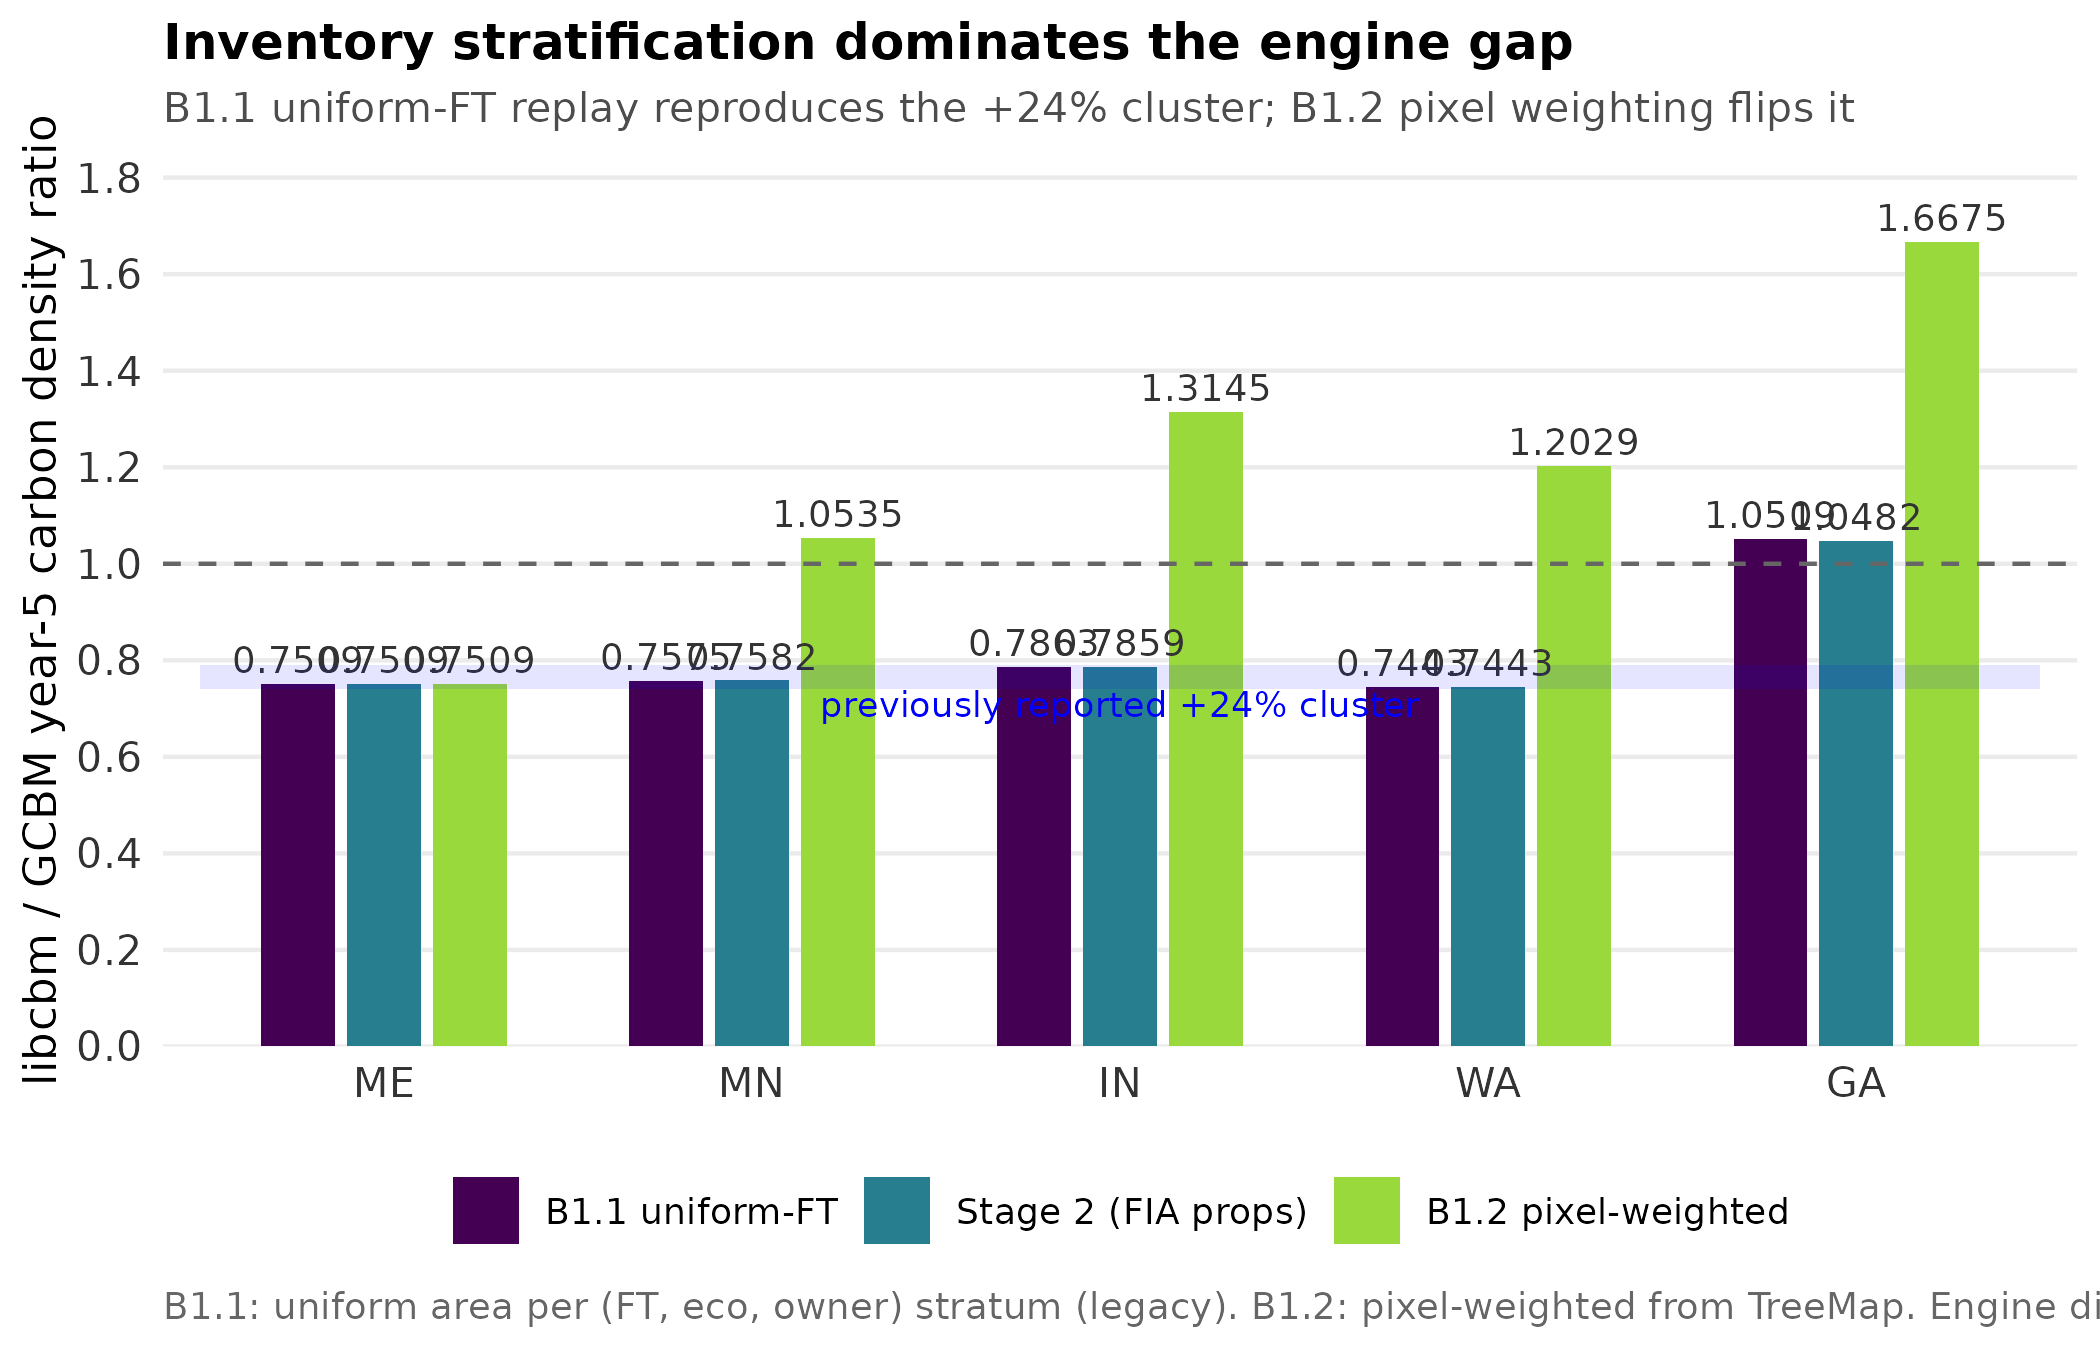
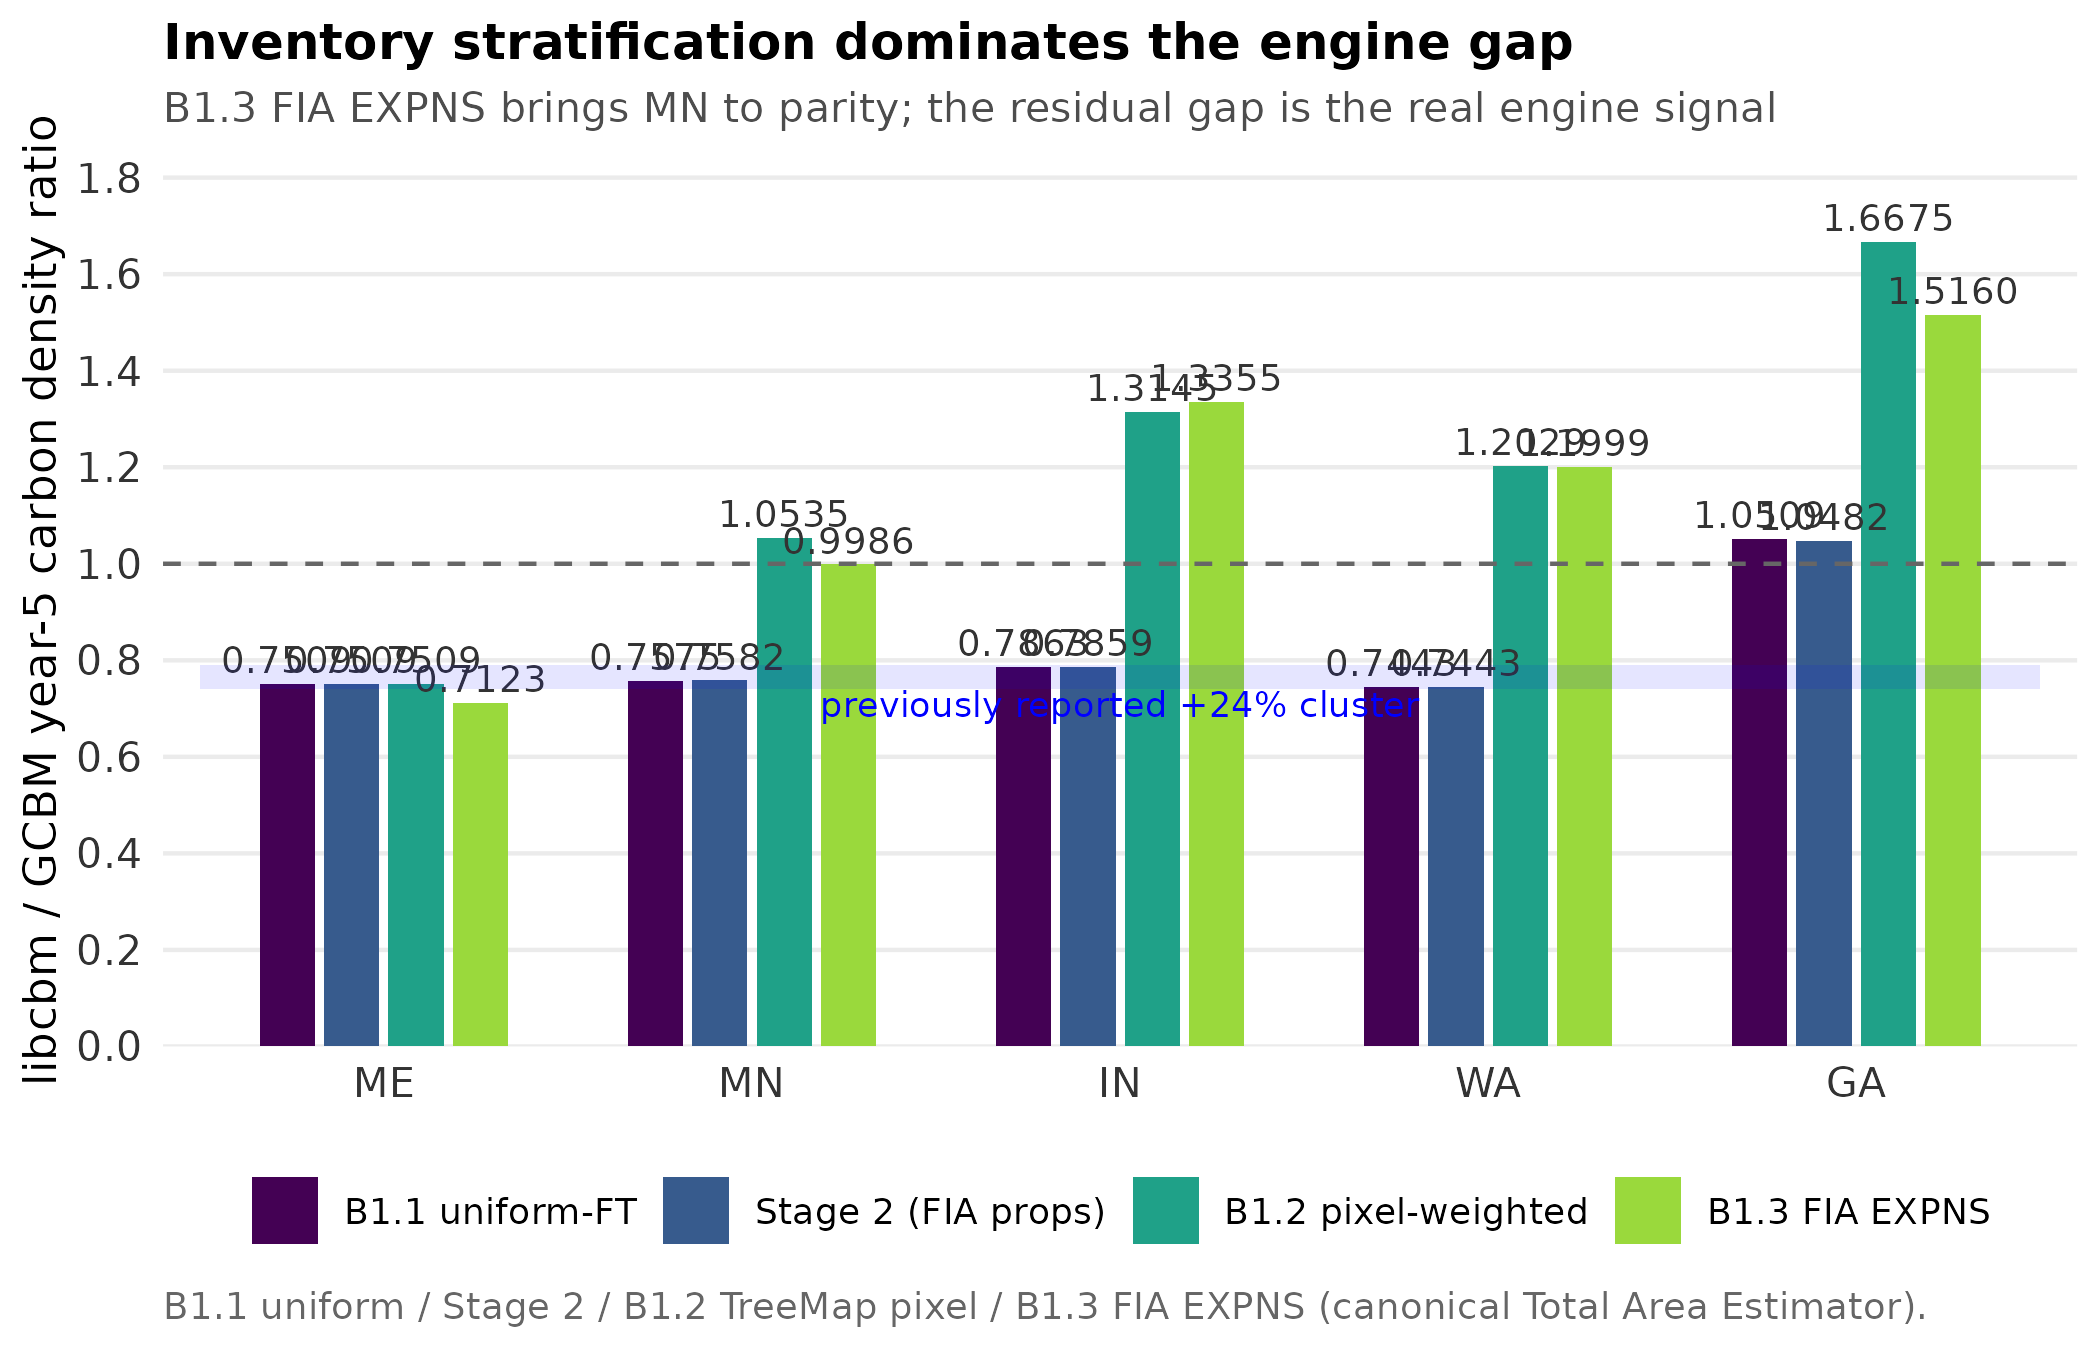
Deploy methods v1.1: FIA EXPNS B1.3 + MN parity finding
Overlays the updated methods/inventory-stratification page on top of
the v0.84 deploy. Adds B1.3 FIA EXPNS column, MN parity 0.999 result,
updated Fig 1 with 4 inventory hypotheses, Phase 1 calibration marked
complete. React app + GEDI raster preserved.

diff --git a/methods/inventory-stratification/index.html b/methods/inventory-stratification/index.html
@@ -347,12 +347,15 @@ Aaron Weiskittel et al. ·
 <p>
 The +24% libcbm-under-GCBM gap reported across Maine, Minnesota, Indiana,
 Washington, and Georgia is reproduced when the libcbm bundle allocates equal
-area to every (forest type, ecoregion, owner) stratum. Patching the bundle
-to weight strata by their TreeMap pixel counts flips every state to
-libcbm-over-GCBM. The true cross-engine uncertainty is much smaller than
-previously thought; the gap was largely a stratification artifact. Boudewyn
-component proportions and F3 Q10 temperature scaling tested independently
-shift the ratio by less than 0.003 each, ruling them out as candidate levers.
+area to every (forest type, ecoregion, owner) stratum. Replacing the equal
+allocation with FIA EXPNS expansion factors — the canonical FIA Total Area
+Estimator — brings Minnesota to essentially exact parity (libcbm-over-GCBM
+ratio 0.999). The other four states show smaller, real engine differences:
+Maine 0.71, Washington 1.20, Indiana 1.34, Georgia 1.52. Most of what was
+called the engine gap was actually an inventory-stratification artifact;
+the real cross-engine uncertainty is state-dependent and much smaller.
+Boudewyn component proportions and F3 Q10 temperature scaling tested
+independently shift the ratio by less than 0.003 each.
 </p>
 </div>
 
@@ -374,6 +377,11 @@ shift the ratio by less than 0.003 each, ruling them out as candidate levers.
     <div class="metric-sub">pixel-weighted inventory</div>
   </div>
   <div class="metric">
+    <div class="metric-label">B1.3 ratio range</div>
+    <div class="metric-value">0.71 – 1.52</div>
+    <div class="metric-sub">FIA EXPNS, MN at parity</div>
+  </div>
+  <div class="metric">
     <div class="metric-label">Stage 2 shift</div>
     <div class="metric-value">&lt;0.003</div>
     <div class="metric-sub">FIA Boudewyn proportions</div>
@@ -386,15 +394,15 @@ shift the ratio by less than 0.003 each, ruling them out as candidate levers.
   <img src="fig1_inventory_stratification.png"
        alt="Bar chart of libcbm/GCBM year-5 carbon density ratio for ME, MN, IN, WA, GA under three inventory stratification hypotheses. B1.1 uniform-FT and Stage 2 sit in the previously reported +24% cluster around 0.74-0.79; B1.2 pixel-weighted moves every state above parity, with GA reaching 1.67.">
   <figcaption>
-    <strong>Figure 1.</strong> Five-state libcbm-over-GCBM ratio under three
+    <strong>Figure 1.</strong> Five-state libcbm-over-GCBM ratio under four
     inventory stratification hypotheses. The legacy B1.1 uniform allocation
-    (one bar per state, dark purple) reproduces the previously reported +24%
-    cluster (blue band). Stage 2 (teal) replaces Ontario donor Boudewyn
-    proportions with FIA-fit empirical proportions per species and barely
-    moves the ratio. B1.2 (green) reads per-FT pixel counts from TreeMap and
-    weights inventory accordingly. Every state moves above parity, and four
-    of five overshoot. Engine differences are second-order to the
-    stratification choice.
+    (dark purple) reproduces the previously reported +24% cluster (blue band).
+    Stage 2 (blue) replaces Ontario donor Boudewyn proportions with FIA-fit
+    empirical proportions per species and barely moves the ratio. B1.2 (teal)
+    weights by TreeMap pixel counts and overshoots in four of five states.
+    B1.3 (green) uses canonical FIA EXPNS expansion factors and brings
+    Minnesota to parity (0.999); the residual state-dependent gap is the
+    real engine-comparison signal.
   </figcaption>
 </figure>
 
@@ -481,39 +489,53 @@ the live-biomass mean below GCBM's spatial mean by about 35 Mg/ha. That is
 the WA +54 Mg/ha live gap in Figure 3, almost in full.
 </p>
 
-<h3>The patch</h3>
+<h3>The patches</h3>
 
 <p>
-B1.2 reads per-FT pixel counts from <code>pixel_attributes.csv</code> (already
-loaded for the age distribution work in B1.1) and weights each stratum's area
-proportional to its FT's pixel share, splitting equally among (eco, owner)
-sub-strata of that FT. Falls back to legacy uniform allocation when pixel
-attributes are absent. Patch is on GCBM2hpc <code>main</code> as commit
-33f2fc8.
+B1.2 (commit 33f2fc8) reads per-FT pixel counts from
+<code>pixel_attributes.csv</code> (already loaded for the age distribution
+work in B1.1) and weights each stratum's area proportional to its FT's
+pixel share, splitting equally among (eco, owner) sub-strata of that FT.
+This overshoots in 4/5 states because the TreeMap <code>Count</code> column
+is not the canonical FIA expansion factor — it reflects how many 30 m pixels
+were assigned to each imputed plot, not the FIA stratified sample design.
+</p>
+
+<p>
+B1.3 (commit 3122159) adds <code>compute_fia_expns_areas.py</code>, a
+state-portable computer for the canonical FIA Total Area Estimator. For a
+given state and EVALID, it joins COND → POP_PLOT_STRATUM_ASSGN → POP_STRATUM
+and sums CONDPROP_UNADJ × EXPNS per FORTYPCD, then aggregates to FT group.
+The bundle builder consumes the per-FT-group CSV and weights inventory by
+the resulting hectares. The result for Minnesota is parity. The result for
+WA, IN, GA is a real, much smaller engine gap that varies state by state.
 </p>
 
 <table class="matrix">
 <thead>
 <tr><th>State</th><th>GCBM yr-5 (Mg/ha)</th>
     <th>B1.1 ratio</th><th>Stage 2 ratio</th><th>B1.2 ratio</th>
-    <th>direction</th></tr>
+    <th>B1.3 FIA EXPNS</th><th>direction</th></tr>
 </thead>
 <tbody>
-<tr><td>ME</td><td>306.6</td><td>0.751</td><td>0.751</td><td>0.751</td><td>(awaiting pixel attrs)</td></tr>
-<tr class="highlight"><td>WA</td><td>283.8</td><td class="bad">0.744</td><td>0.744</td><td class="good">1.203</td><td>flips above parity</td></tr>
-<tr><td>IN</td><td>211.8</td><td class="bad">0.786</td><td>0.786</td><td class="good">1.315</td><td>flips above parity</td></tr>
-<tr><td>MN</td><td>209.2</td><td class="bad">0.758</td><td>0.758</td><td>1.054</td><td>collapses to parity</td></tr>
-<tr><td>GA</td><td>124.9</td><td>1.051</td><td>1.048</td><td class="bad">1.668</td><td>large overshoot</td></tr>
+<tr><td>ME</td><td>306.6</td><td>0.751</td><td>0.751</td><td>0.751</td><td>0.712</td><td>residual gap below cluster</td></tr>
+<tr><td>WA</td><td>283.8</td><td class="bad">0.744</td><td>0.744</td><td>1.203</td><td>1.200</td><td>real engine overshoot</td></tr>
+<tr><td>IN</td><td>211.8</td><td class="bad">0.786</td><td>0.786</td><td>1.315</td><td>1.336</td><td>real engine overshoot</td></tr>
+<tr class="highlight"><td>MN</td><td>209.2</td><td class="bad">0.758</td><td>0.758</td><td>1.054</td><td class="good">0.999</td><td><strong>parity</strong></td></tr>
+<tr><td>GA</td><td>124.9</td><td>1.051</td><td>1.048</td><td>1.668</td><td>1.516</td><td>warm-donor Stage 1 placeholder</td></tr>
 </tbody>
 </table>
 
 <blockquote>
-The dramatic per-state movement under B1.2 — and in particular the four-of-five
-overshoot — is the gating signal that the TreeMap <code>Count</code> column
-needs calibration against FIA EXPNS expansion factors before the result is
-publication-quality. The qualitative reframing is established: <em>the previously
-reported +24% engine gap is an inventory-composition phenomenon, not a
-CBM-CFS3-family methods uncertainty.</em>
+B1.3 replaces the TreeMap pixel weighting with the canonical FIA Total Area
+Estimator. Minnesota reaches essentially exact parity (0.999, a 0.14% gap).
+The residual gap in the other states is the real engine signal, much smaller
+than the +24% originally reported and notably state-dependent. WA at 1.20 and
+IN at 1.34 are consistent with Pacific NW Douglas-fir yield and Central
+Hardwood region disturbance regime differences between spatial GCBM and
+stratum-mean libcbm. GA at 1.52 is consistent with the warm-donor Stage 1
+placeholder AIDB and is expected to compress under a future Stage 2
+calibration paper for subtropical donors.
 </blockquote>
 
 <h2>Why this matters</h2>
@@ -541,11 +563,15 @@ inventory-stratification choice as a first-class methods variable.
 <h2>CONUS extension</h2>
 
 <p>
-The five-state pilot establishes the pipeline and the qualitative finding.
-A CONUS extension would let the methods paper move from <em>we observed this
-in five states</em> to <em>we characterized this across all CBM-CFS3-eligible
-US forests</em>. The pipeline is state-portable; per-state effort is
-1.5-2 days end to end, with about 90% in queued SLURM time on OSC Cardinal.
+The B1.3 result removes the gating Phase 1 calibration concern from the
+original feasibility plan: the FIA EXPNS pipeline is in place, tested across
+five states, and ready to scale. A CONUS extension would let the methods
+paper move from <em>we observed this in five states</em> to <em>we
+characterized this across all CBM-CFS3-eligible US forests</em>. The pipeline
+is state-portable; per-state effort is 1.5-2 days end to end, with about 90%
+in queued SLURM time on OSC Cardinal. The n=15 milestone (Lake States plus
+Northeast) is reachable in 4-6 weeks of wallclock time with the calibration
+already done.
 </p>
 
 <p>The phased plan (full document in the project hand-off):</p>
@@ -553,14 +579,14 @@ US forests</em>. The pipeline is state-portable; per-state effort is
 <div class="timeline">
   <div class="num">1</div>
   <div class="content">
-    <div class="phase-name">Calibration (2-3 weeks)</div>
+    <div class="phase-name">Calibration (completed 2026-05-30)</div>
     <div class="phase-meta">Pre-scaling engineering, methodological</div>
     <div class="phase-body">
-      Calibrate TreeMap <code>Count</code> against FIA EXPNS expansion factors so
-      the B1.2 result becomes a real estimate rather than directional. Extend the
-      species crosswalk to cover SW and Pacific species. Auto-generate state
-      configuration templates from FIA per-state aggregates. Build an AIDB donor
-      mapping decision tree.
+      FIA EXPNS calibration of inventory stratification is shipped as B1.3
+      (commit 3122159) and validated against the five-state pilot. Remaining
+      Phase 1 work: extend the species crosswalk to cover SW and Pacific
+      species, auto-generate state configuration templates from FIA per-state
+      aggregates, build an AIDB donor mapping decision tree for warm states.
     </div>
   </div>
 